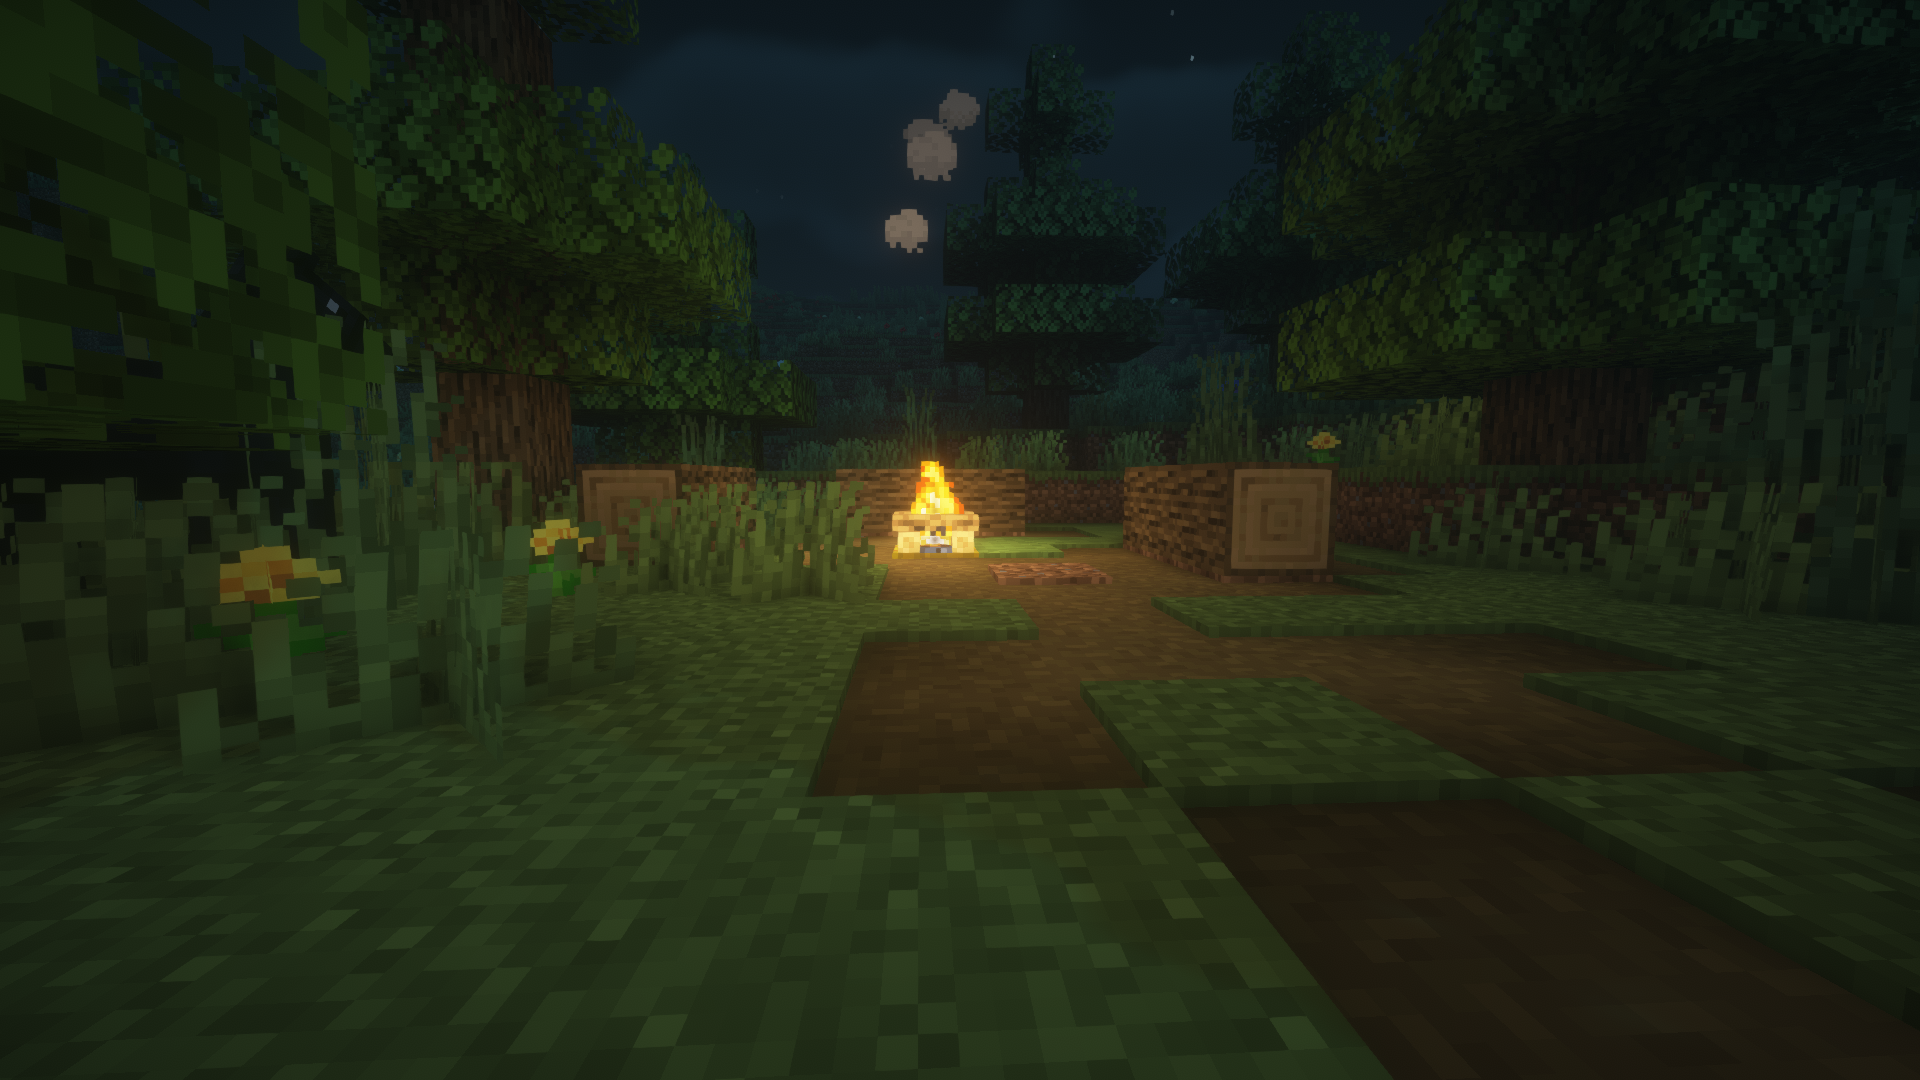
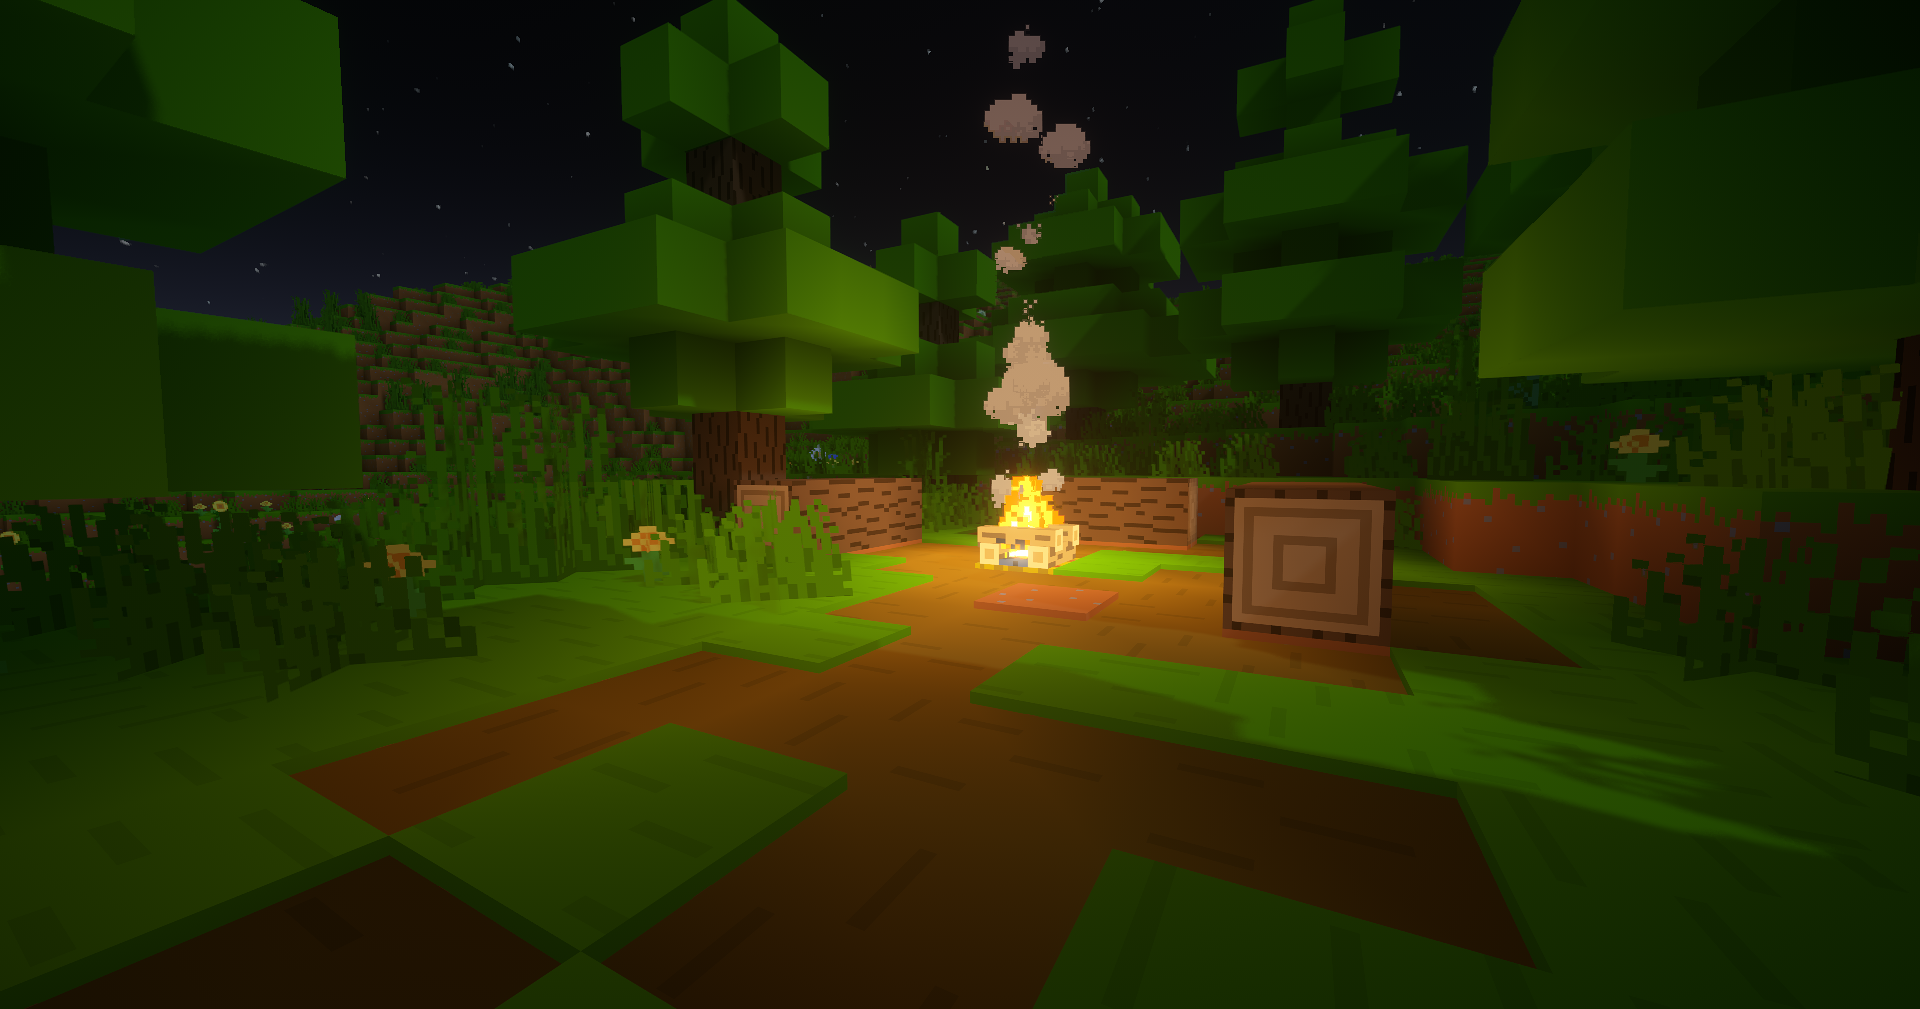
changed image and replaced header images

diff --git a/staff.html b/staff.html
@@ -45,7 +45,35 @@
         </div>
       </nav>
     <main>
-
+      <h2 class="catcenter">Owners</h2>
+          <div class="container">
+            <div class="row gx-5">
+              <div class="col-sm-12 col-md-4">
+                <div class="card text-bg-dark">
+                  <img class="card-img-top" src="/img/skins/Lodgicalskin.png" alt="" />
+                  <div class="card-body">
+                    <h5 class="card-title">Lodgical (Founder)</h5>
+                  </div>
+                </div>
+              </div>
+              <div class="col-sm-12 col-md-4">
+                <div class="card text-bg-dark">
+                  <img class="card-img-top" src="/img/skins/boerboi08skin.png" alt="" />
+                  <div class="card-body">
+                    <h5 class="card-title">BoerBoi08</h5>
+                  </div>
+                </div>
+              </div>
+              <div class="col-sm-12 col-md-4">
+                <div class="card text-bg-dark">
+                  <img class="card-img-top" src="/img/skins/General__Waffleskin.png" alt="" />
+                  <div class="card-body">
+                    <h5 class="card-title">General__Waffle</h5>
+                  </div>
+                </div>
+              </div>
+            </div>
+          </div>
     </main>
     <footer>
         Copyright 2022 Dark MC

diff --git a/index.html b/index.html
@@ -70,6 +70,15 @@
                   </div>
                 </div>
               </div>
+              <div class="col-sm-12 col-md-4">
+                <div class="card text-bg-dark">
+                  <img class="card-img-top" src="/img/screenshots/yourjourney.png" alt="" />
+                  <div class="card-body">
+                    <h5 class="card-title">Begin Your Adventure</h5>
+                    <p class="card-text">It is not all the hub go outside of it a begin you adventure on DarkMC.</p>
+                  </div>
+                </div>
+              </div>
             </div>
           </div>
           <h1 class="catcenter">The Staff Team</h1>
@@ -102,6 +111,7 @@
               </div>
             </div>
           </div>
+          <h2 class="catcenter">Moderation Team</h2>
     </main>
     <footer>
         Copyright 2022 Dark MC

diff --git a/css/style.css b/css/style.css
@@ -14,7 +14,7 @@ nav {
 header {
     height: 400px;
     width: auto;
-    background-image: url(/img/screenshots/yourjourney.png);
+    background-image: url(/img/screenshots/campingsite.png);
     background-position: center;
     text-align: center;
     padding-top: 70px;
